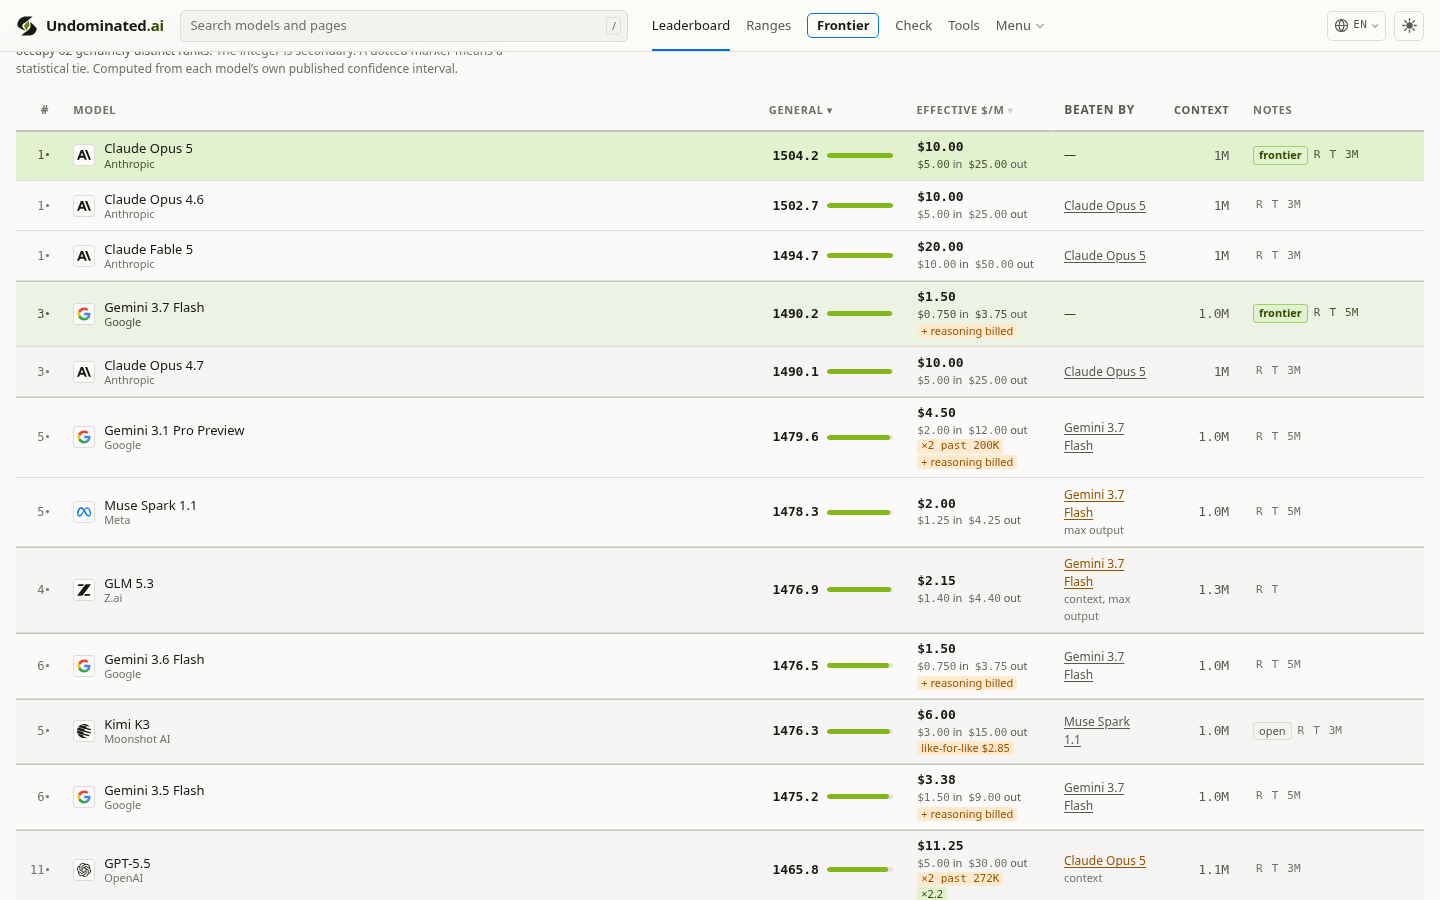
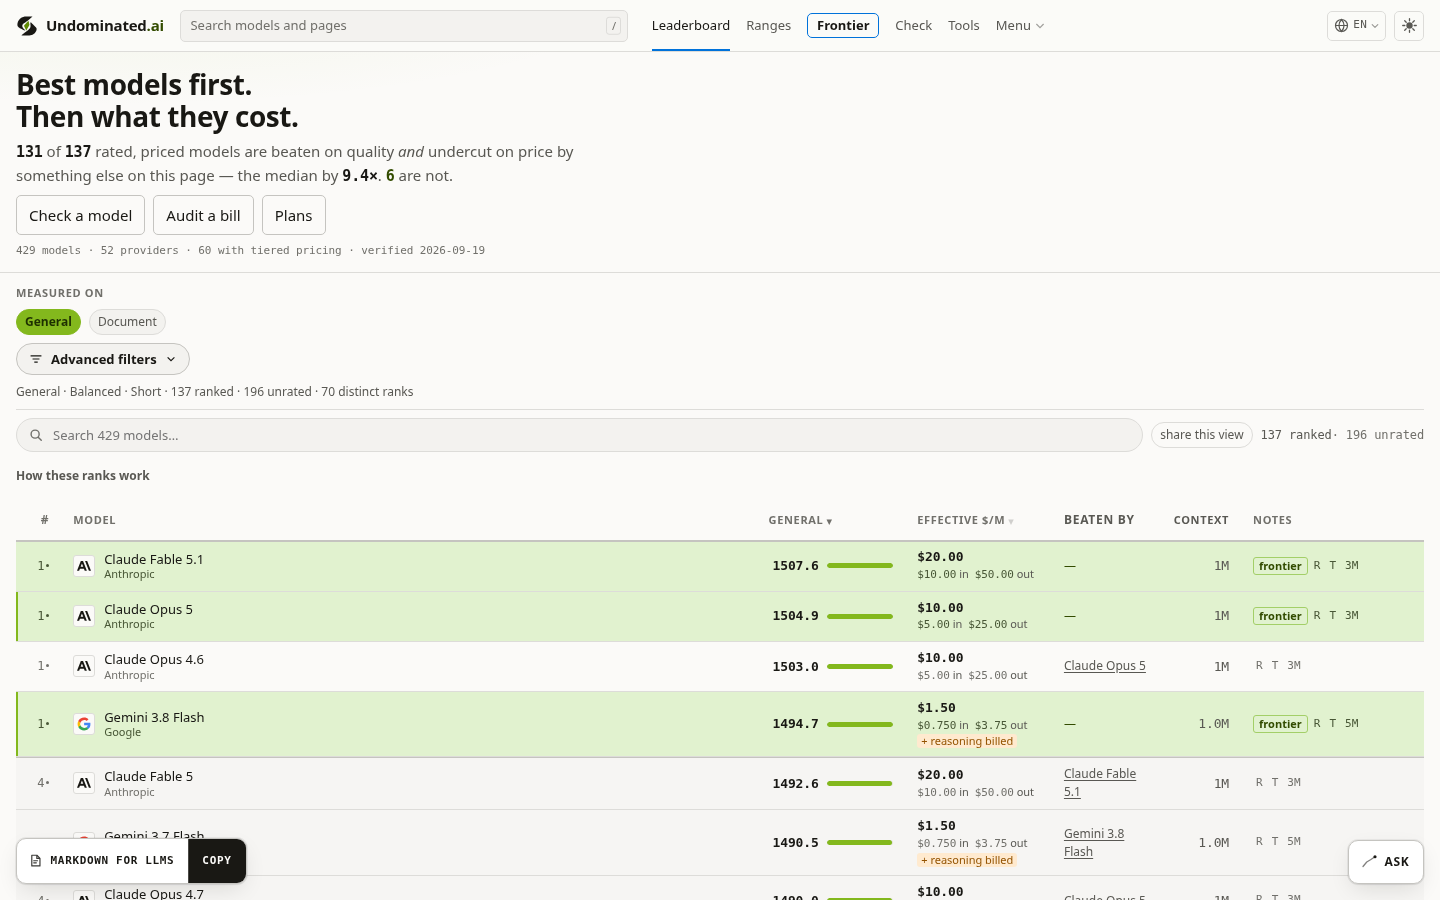
docs: refresh the public face to the 2026-09-19 board
README figures, hero.svg and the capability-floor table are regenerated
from the live catalogue (429 models, 52 providers, 6 on the frontier,
131 of 137 rated-priced dominated). Screenshots reshot against that
board, including /plans/. Quality is stated as LMArena only; Artificial
Analysis is not on the site.

Adds a citable-dump section, datasets/README.md, discussion templates,
a short code of conduct, and share copy that refuses a number without a
date. CITATION.cff now points at catalogue-2026-09-19.

diff --git a/README.md b/README.md
@@ -17,7 +17,10 @@
   <a href="https://undominated.ai/frontier/"><img src="https://img.shields.io/badge/dynamic/json?url=https%3A%2F%2Fundominated.ai%2Fdata%2Fcatalogue.json&query=%24.stats.frontierSize&label=frontier&suffix=%20undominated&style=flat-square&labelColor=191814&color=83B81D" alt="Models on the value frontier, read live from the published catalogue"></a>
   <a href="https://undominated.ai/check/"><img src="https://img.shields.io/badge/check-the_model_you_pay_for-0072DA?style=flat-square&labelColor=191814" alt="Check a model"></a>
   <a href="https://www.npmjs.com/package/undominated-check"><img src="https://img.shields.io/npm/v/undominated-check?style=flat-square&labelColor=191814&color=83B81D" alt="undominated-check on npm"></a>
+  <a href="https://undominated.ai/"><img src="https://img.shields.io/badge/dynamic/json?url=https%3A%2F%2Fundominated.ai%2Fdata%2Fcatalogue.json&query=%24.stats.models&label=models&style=flat-square&labelColor=191814&color=83B81D" alt="Model count, read live from the published catalogue"></a>
   <a href="https://huggingface.co/datasets/LPH98/undominated-ai-model-pricing"><img src="https://img.shields.io/badge/dataset-Hugging_Face-FFD21E?style=flat-square&labelColor=191814" alt="Licence-gated dump on Hugging Face"></a>
+  <a href="https://github.com/Lenvanderhof/Undominated.ai/releases"><img src="https://img.shields.io/github/v/release/Lenvanderhof/Undominated.ai?filter=catalogue-*&style=flat-square&labelColor=191814&color=0072DA&label=catalogue" alt="Latest citable catalogue dump"></a>
+  <a href="https://github.com/Lenvanderhof/Undominated.ai/discussions"><img src="https://img.shields.io/badge/discussions-ask-0072DA?style=flat-square&labelColor=191814" alt="Discussions"></a>
   <a href="https://github.com/Lenvanderhof/Undominated.ai/issues/new?template=wrong-price.yml"><img src="https://img.shields.io/badge/corrections-open_an_issue-FBFAF8?style=flat-square&labelColor=191814" alt="Report a wrong figure"></a>
 </p>
 
@@ -94,10 +97,10 @@ Most AI “value” tables invent a score, then sort by it.
 
 Undominated.ai does the opposite. It ranks on **independently measured capability first**. Price breaks ties. A model that is both worse and dearer is named as such. A model that has not been measured is **unrated**, never zero.
 
-> **<!--fig:dominatedOfRated-->121 of 131<!--/fig-->** rated, priced models are beaten on quality *and* undercut on price by something else on the board.<br>
-> **<!--fig:frontier-->10<!--/fig-->** are not. That set is the value frontier.
+> **<!--fig:dominatedOfRated-->131 of 137<!--/fig-->** rated, priced models are beaten on quality *and* undercut on price by something else on the board.<br>
+> **<!--fig:frontier-->6<!--/fig-->** are not. That set is the value frontier.
 
-Every figure on this page is generated from the live catalogue by `scripts/refresh-readme.mjs`, last on **<!--fig:asOf-->2026-09-09<!--/fig-->** (<!--fig:models-->416<!--/fig--> models, <!--fig:providers-->48<!--/fig--> providers). It is checked in CI, because a README that states a number by hand states a wrong one within the week. **[The live board is still the source](https://undominated.ai/).**
+Every figure on this page is generated from the live catalogue by `scripts/refresh-readme.mjs`, last on **<!--fig:asOf-->2026-09-19<!--/fig-->** (<!--fig:models-->429<!--/fig--> models, <!--fig:providers-->52<!--/fig--> providers). It is checked in CI, because a README that states a number by hand states a wrong one within the week. **[The live board is still the source](https://undominated.ai/).**
 
 <p align="center">
   <a href="https://undominated.ai/"><strong>Open the index →</strong></a>
@@ -140,6 +143,13 @@ Every figure on this page is generated from the live catalogue by `scripts/refre
       <sub><a href="https://undominated.ai/tools/">Tools</a> · coverage, not a quality score</sub>
     </td>
   </tr>
+  <tr>
+    <td valign="top" colspan="2">
+      <a href="https://undominated.ai/plans/"><img src="docs/shots/plans.png" alt="ChatGPT, Claude, Copilot, Cursor and Google AI plans compared to API: published monthly price, vendor-worded limits, and the token volume where per-token is cheaper." width="100%"></a>
+      <br>
+      <sub><a href="https://undominated.ai/plans/">Plans</a> · subscription vs API, vendor-worded limits</sub>
+    </td>
+  </tr>
 </table>
 
 <p align="center">
@@ -161,7 +171,7 @@ Undominated.ai publishes the uncomfortable version:
 | Claim the market likes | What this index actually does |
 | --- | --- |
 | A blended “value” rank | Capability first, effective price second. Never mixed into one score. |
-| Unrated at the bottom | Unrated is not zero. **<!--fig:unratedPct-->69%<!--/fig-->** of the catalogue (<!--fig:unrated-->285<!--/fig--> of <!--fig:models-->416<!--/fig-->) has no independent quality score. Those rows are listed by price and excluded from quality order. |
+| Unrated at the bottom | Unrated is not zero. **<!--fig:unratedPct-->68%<!--/fig-->** of the catalogue (<!--fig:unrated-->292<!--/fig--> of <!--fig:models-->429<!--/fig-->) has no independent quality score. Those rows are listed by price and excluded from quality order. |
 | Integer ranks as fact | Significance ranks. Models the benchmark cannot separate **share a rank** — roughly half the ranked board collapses into shared positions once the published confidence intervals are drawn. [The live board states the exact split](https://undominated.ai/); it moves whenever a score does, so it is not repeated here. |
 | “Cheaper is better” | Cheaper is cheaper. A strict upgrade is a capability *superset* that also costs less: same context, same modalities, same tools. |
 | Headline $/M | **<!--fig:tiered-->60<!--/fig-->** models change rate past a context threshold. The board reprices the row when your prompt crosses it. |
@@ -184,10 +194,10 @@ Every route answers a decision, not a document type.
 | You want to | Open |
 | --- | --- |
 | See what is actually worth buying | [Leaderboard](https://undominated.ai/) |
-| See the <!--fig:frontier-->10<!--/fig--> nothing beats on both axes | [Frontier](https://undominated.ai/frontier/) |
+| See the <!--fig:frontier-->6<!--/fig--> nothing beats on both axes | [Frontier](https://undominated.ai/frontier/) |
 | Test the model you already use | [Check](https://undominated.ai/check/) |
 | Cite a dated stamp | [Now](https://undominated.ai/now/) |
-| Cite the licence-gated dump | [Hugging Face dataset](https://huggingface.co/datasets/LPH98/undominated-ai-model-pricing) · [GitHub Release](https://github.com/Lenvanderhof/Undominated.ai/releases/tag/catalogue-2026-08-31) · [`CITATION.cff`](CITATION.cff) |
+| Download the citable dump | [GitHub Release](https://github.com/Lenvanderhof/Undominated.ai/releases) · [Hugging Face](https://huggingface.co/datasets/LPH98/undominated-ai-model-pricing) · [`CITATION.cff`](CITATION.cff) · [`datasets/`](datasets/) |
 | Compare subscription plans to API | [Plans](https://undominated.ai/plans/) |
 | Find the cheapest model above a quality floor | [Cheapest at](https://undominated.ai/cheapest-at/) |
 | See whether shopping around is worth it | [Providers](https://undominated.ai/providers/) · [Spreads](https://undominated.ai/spreads/) |
@@ -231,22 +241,23 @@ A model is **on the frontier** when nothing in the catalogue is both better and 
 
 That is a Pareto statement, not a vibe. Chartreuse in the interface is reserved for frontier membership. It is not a brand highlight colour.
 
-Two capability sources are published **side by side and never blended**: independent index scores, and LMArena human preference. Switching the lens re-ranks the board. It does not invent a hybrid number.
+Quality on the board is **LMArena Elo**, from the official CC BY 4.0 dataset, with the published confidence interval. Unrated is not zero. Artificial Analysis figures are not published here. Switching the task lens re-ranks the same prices; it does not invent a hybrid score.
 
 ---
 
 ## This repository
 
-**Undominated.ai lives at [undominated.ai](https://undominated.ai/).** This GitHub repository is the public face of that product: a landing page you can star, cite, and link, and a **public issue tracker** for corrections.
+**Undominated.ai lives at [undominated.ai](https://undominated.ai/).** This GitHub repository is the public face of that product: a landing page you can star, cite, and link; a **public issue tracker** for corrections; **Discussions** for questions; and **dated catalogue dumps** you can download without scraping the live board.
 
-It is not a dump of the catalogue. It is not a place to send scraped prices. It is not a second copy of the ranking engine.
+It is not a place to send scraped prices. It is not a second copy of the ranking engine. The live board remains the source.
 
 | In this repo | On the live site |
 | --- | --- |
 | This README | The ranked board, updated from sourced pages |
-| Issue templates | Prices, scores, significance ranks |
-| Brand mark and screenshots | 19 locales, Markdown, JSON, RSS |
-| Security contact | Methodology, independence, corrections log |
+| [Releases](https://github.com/Lenvanderhof/Undominated.ai/releases) — dated JSON/CSV dumps | Prices, scores, significance ranks |
+| Issue templates | Methodology, independence, corrections log |
+| Discussions | 19 locales, Markdown, JSON, RSS |
+| Brand mark and screenshots | `/now/` dated stamps |
 
 Machine-readable surfaces stay on the origin, where they can carry provenance:
 
@@ -255,6 +266,23 @@ Machine-readable surfaces stay on the origin, where they can carry provenance:
 - [`/badge/<key>.svg`](https://undominated.ai/badge/anthropic__claude-opus-5.svg) — README dominance badge
 - [`/?format=md`](https://undominated.ai/?format=md) — any page as Markdown
 - [`/now/`](https://undominated.ai/now/) — dated frontier stamp (hash on the page)
+- [`/data/citation.json`](https://undominated.ai/data/citation.json) — what is citable, with hashes
+- [`/data/snapshots/2026-09-19.json`](https://undominated.ai/data/snapshots/2026-09-19.json) — the current citable snapshot
+
+---
+
+## Download the catalogue
+
+The live board is rebuilt in place. A citation needs bytes that will still be there next year.
+
+| What | Where |
+| --- | --- |
+| **2026-09-19 dump** (JSON + CSV, no Artificial Analysis fields) | [GitHub Release `catalogue-2026-09-19`](https://github.com/Lenvanderhof/Undominated.ai/releases/tag/catalogue-2026-09-19) |
+| Same dump, Hugging Face | [`LPH98/undominated-ai-model-pricing`](https://huggingface.co/datasets/LPH98/undominated-ai-model-pricing) |
+| How to cite | [`CITATION.cff`](CITATION.cff) · [`datasets/README.md`](datasets/README.md) |
+| What is *not* citable | [`catalogue.json` and per-model JSON](https://undominated.ai/data/citation.json) — rebuilt on every deploy, no date in the path |
+
+LMArena Elo in the dump is **CC BY 4.0** from the official Hugging Face dataset. Vendor list prices are facts the vendor published. Artificial Analysis fields are **not in the file**.
 
 ---
 
@@ -289,14 +317,14 @@ Everyone publishes today's prices. Nobody publishes what the **cheapest model cl
 
 <!--floors-->
 
-| Capability floor (LMArena) | 2026-08-24 | 2026-09-09 | Move | Cheapest today |
+| Capability floor (LMArena) | 2026-08-24 | 2026-09-19 | Move | Cheapest today |
 |:---|---:|---:|---:|:---|
-| **≥ 1200** | $0.0525 | $0.0525 | unchanged | `upstage/solar-pro4` |
-| **≥ 1350** | $0.0525 | $0.0525 | unchanged | `upstage/solar-pro4` |
-| **≥ 1400** | $0.0611 | $0.1069 | +75% | `deepseek/deepseek-v4-flash` |
-| **≥ 1450** | $0.4961 | $0.5437 | +10% | `xiaomi/mimo-v2.5-pro` |
+| **≥ 1200** | $0.0525 | $0.0483 | -8% | `deepseek/deepseek-v4-flash` |
+| **≥ 1350** | $0.0525 | $0.0483 | -8% | `deepseek/deepseek-v4-flash` |
+| **≥ 1400** | $0.0611 | $0.0483 | -21% | `deepseek/deepseek-v4-flash` |
+| **≥ 1450** | $0.4961 | $0.1425 | -71% | `z-ai/glm-5.3-flash` |
 
-<sub>Effective $/M on the balanced workload, from 11 dated snapshots. Generated by `scripts/build-floor-table.mjs`. The floors are append-only — a threshold is never edited in place, because a moved goalpost turns a series into marketing.</sub>
+<sub>Effective $/M on the balanced workload, from 13 dated snapshots. Generated by `scripts/build-floor-table.mjs`. The floors are append-only — a threshold is never edited in place, because a moved goalpost turns a series into marketing.</sub>
 
 <!--/floors-->
 

diff --git a/datasets/README.md b/datasets/README.md
@@ -1,0 +1,51 @@
+# Datasets
+
+This repository is the public face of [undominated.ai](https://undominated.ai/). **It does not contain the live catalogue.** A clone of this repo is not a price feed.
+
+Citable dumps live as **GitHub Releases** and on **Hugging Face**. The live board is rebuilt in place; a citation needs bytes that still exist next year.
+
+## Current dump — 2026-09-19
+
+| | |
+|---|---|
+| GitHub Release | [`catalogue-2026-09-19`](https://github.com/Lenvanderhof/Undominated.ai/releases/tag/catalogue-2026-09-19) |
+| Hugging Face | [`LPH98/undominated-ai-model-pricing`](https://huggingface.co/datasets/LPH98/undominated-ai-model-pricing) |
+| Live snapshot (hashed) | https://undominated.ai/data/snapshots/2026-09-19.json |
+| Citation file | [`CITATION.cff`](../CITATION.cff) |
+| What is citable | https://undominated.ai/data/citation.json |
+
+Files in the release:
+
+| File | What it is |
+|---|---|
+| `models.json` | Nested records, one listing per object. Allowlisted fields only. |
+| `models.csv` | Headline columns, flat. |
+| `datapackage.json` | Schema, sources, SHA-256 per file, combined `contentHash`. |
+| `LICENSE.md` | Terms and required LMArena attribution. |
+| `README.md` | Counts computed from the rows actually written. |
+
+## What is in a dump
+
+- Vendor list prices (OpenRouter / first-party pages), with every context-tier rung kept.
+- LMArena Elo from the official **CC BY 4.0** Hugging Face dataset, with effort level and confidence interval.
+- Provenance: source URL and fetch date on every row.
+
+## What is not
+
+- **Artificial Analysis fields.** Free-tier terms are internal-use-only. The export uses an allowlist, so a new AA field upstream is excluded by default.
+- **Model descriptions.** Prose is somebody's copyright in a way a list price is not.
+- **`FakeProvider` and `Stealth`.** Not real sellers.
+
+`null` on a quality field means *not stated here*. It is not a score of zero. Some rows are unmeasured; some were measured and the score is withheld because we may not redistribute it. Those two absences are not interchangeable.
+
+## How to cite
+
+Use [`CITATION.cff`](../CITATION.cff). Cite the **dated dump** (release tag + `contentHash`), not a screenshot of the live board and not `catalogue.json` — that file is rebuilt on every deploy and has no date in its path.
+
+## How the dump is built
+
+In the private build tree: `node scripts/build-export.mjs`. The fence is `FIELD_ALLOWLIST` in that file. A denylist of fields we remembered to exclude is how a new AA key would ship.
+
+## Corrections
+
+A wrong figure in a snapshot belongs in the public log, not a silent rewrite of the release: https://undominated.ai/corrections/ · [open an issue](https://github.com/Lenvanderhof/Undominated.ai/issues/new?template=wrong-price.yml).

diff --git a/docs/SHARE.md b/docs/SHARE.md
@@ -1,0 +1,33 @@
+# Sharing Undominated.ai
+
+Do not quote a number from memory. The board moves. Use a surface that carries a date, or a sentence that does not need one.
+
+## Short, and still true tomorrow
+
+> Most rated, priced models are a strictly worse deal than something else on the same page. A handful are not. That set is the value frontier.
+>
+> https://undominated.ai
+
+> Unrated is not zero. Missing is not free. Cheaper is cheaper — a strict upgrade is a capability superset that also costs less.
+>
+> https://undominated.ai/methodology/
+
+> No cut of inference. No affiliate. No gateway. Capability first, then price.
+>
+> https://undominated.ai/independence/
+
+## When you need a number
+
+Cite a **dated stamp**, not the live `catalogue.json`:
+
+- Frontier stamp: https://undominated.ai/now/
+- Citable snapshot: https://undominated.ai/data/citation.json
+- This week's dump: https://github.com/Lenvanderhof/Undominated.ai/releases
+
+A screenshot of the board is an observation. A `/now/` stamp has a date and a hash.
+
+## GitHub
+
+Star [Lenvanderhof/Undominated.ai](https://github.com/Lenvanderhof/Undominated.ai). File a wrong figure as an [issue](https://github.com/Lenvanderhof/Undominated.ai/issues/new?template=wrong-price.yml). Questions go in [Discussions](https://github.com/Lenvanderhof/Undominated.ai/discussions).
+
+The Dual Witness mark and the chartreuse evidence shard identify the live index. Use them with attribution. Do not redraw the mark from a photograph. Press stills: https://undominated.ai/press/

diff --git a/CODE_OF_CONDUCT.md b/CODE_OF_CONDUCT.md
@@ -1,0 +1,21 @@
+# Code of conduct
+
+This tracker exists so a wrong price, score, or rank can be corrected in public. That only works if people can file a disagreement without being shouted at.
+
+## Expected
+
+- Corrections come with a **primary source** (vendor page, official dataset, dated snapshot) and a date you checked.
+- Disagreement is about a figure, not a person.
+- Unrated is not zero. Missing is not free. Unknown is not a win.
+
+## Not welcome
+
+- Scraped or paywalled catalogues dumped into an issue.
+- Artificial Analysis extracts. We cannot redistribute them and we will not host them here.
+- Harassment, pile-ons, or “gotcha” campaigns that skip the source URL.
+
+## Enforcement
+
+The maintainer ([Len van der Hof](https://lenvanderhof.com)) may hide, lock, or delete a thread that is a dump, a sublicence request we cannot grant, or an attack. Security issues go to [advisories](https://github.com/Lenvanderhof/Undominated.ai/security/advisories/new), not a public issue.
+
+This is adapted from the [Contributor Covenant](https://www.contributor-covenant.org/version/2/1/code_of_conduct/). The product rule underneath it is the same as the site: **never publish a number you cannot trace.**

diff --git a/CONTRIBUTING.md b/CONTRIBUTING.md
@@ -5,7 +5,8 @@ This repository is not a code drop of undominated.ai.
 **What to send**
 
 1. A [Wrong figure](https://github.com/Lenvanderhof/Undominated.ai/issues/new?template=wrong-price.yml) issue when a live price, score, or rank disagrees with a primary source. Required: model, what the page shows, what it should be, source URL, date.
-2. Nothing else that belongs on the live site. Feature ideas are cheaper as a visit to [the index](https://undominated.ai/) than as a pull request here.
+2. A [Discussion](https://github.com/Lenvanderhof/Undominated.ai/discussions) for how to cite a dump, how a verdict is computed, or how to read `null`. Not for a wrong live figure.
+3. Nothing else that belongs on the live site. Feature ideas are cheaper as a visit to [the index](https://undominated.ai/) than as a pull request here.
 
 **What not to send**
 
